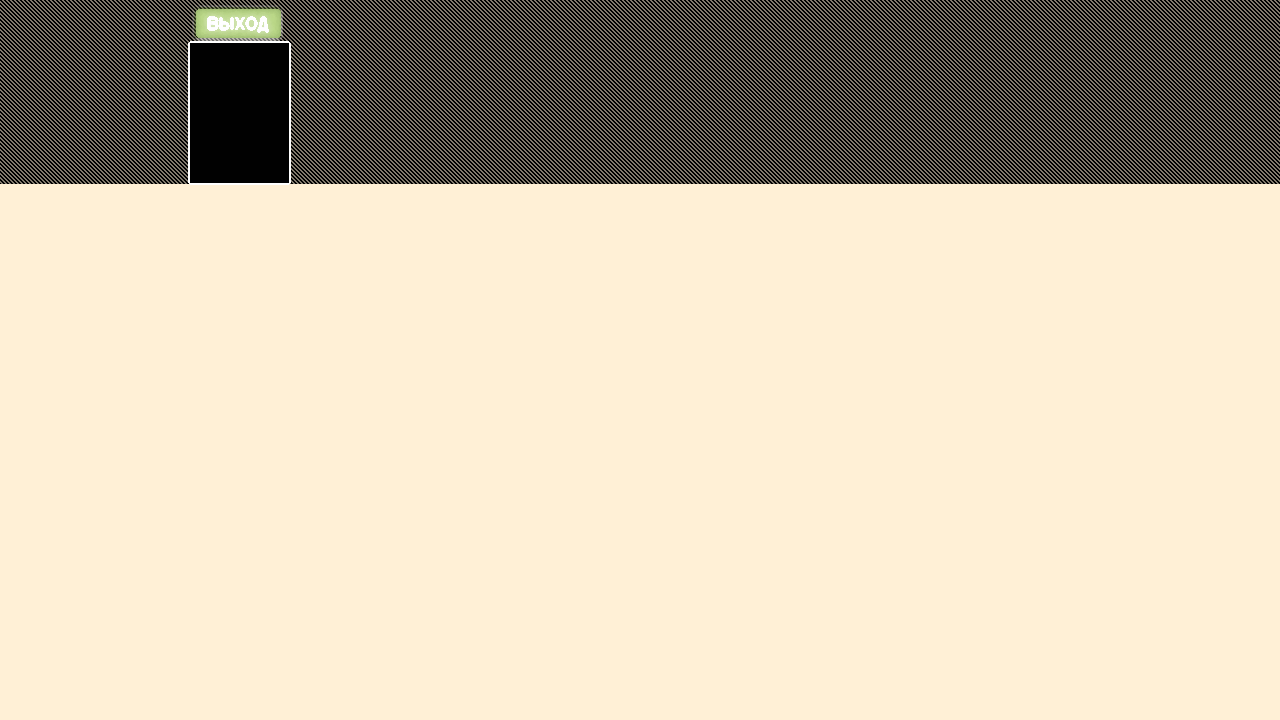
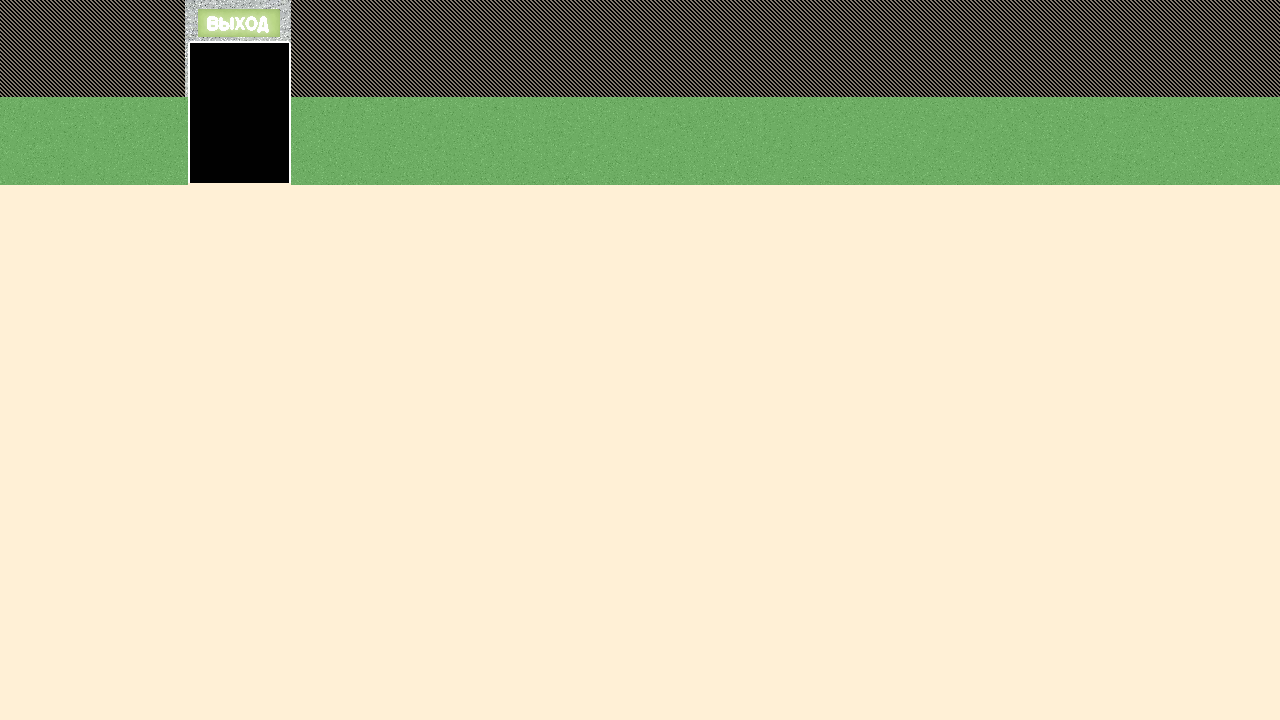
8

Changed region(s): [[0.2188, 0.1222, 1.0, 0.275], [0.0, 0.1222, 0.1562, 0.275], [0.125, 0.0, 0.25, 0.0611]]

diff --git a/app/game.js b/app/game.js
@@ -21,8 +21,8 @@ game.scene.hospital = function () {
 	game.wipe ();
 	game.create.sprite ({ h: 720, i: game.i.lvl_hospital, w: 1280, x: 0, y: 0}).load ();
 
-	game.create.block ({ h: 10, i: game.i.void, w: 187, x: 0, y: 124, z: 1}).load ();
-	game.create.block ({ h: 10, i: game.i.void, w: 990, x: 290, y: 124, z: 1}).load ();
+	game.create.block ({ h: 140, i: game.i.wall, repeat: true, w: 187, x: 0, y: 0, z: 1}).load ();
+	game.create.block ({ h: 140, i: game.i.wall, repeat: true, w: 990, x: 290, y: 0, z: 1}).load ();
 
 	game.create.gate ({ action: function () { game.play ({ name: 'open' }); game.scene.menu (); }, h: 90, i: game.i.black, w: 99, x: 190, y: 42, z: 1}).load ();
 

diff --git a/app/load.js b/app/load.js
@@ -18,5 +18,6 @@ game.get.i ([
 	'ready',
 	'start',
 	'test',
-	'void'
+	'void',
+	'wall'
 ]);
